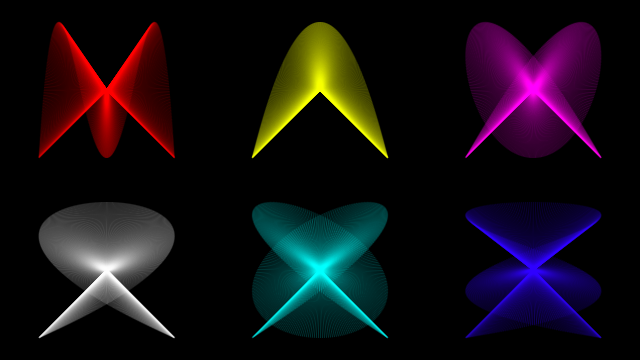
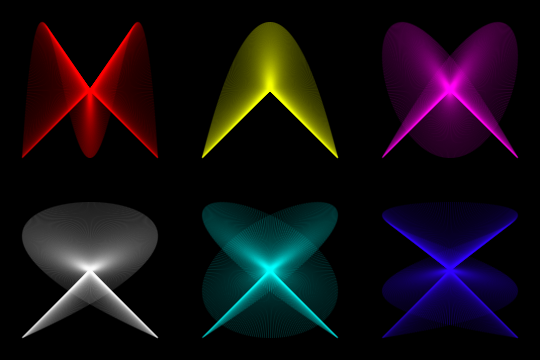
example: resize canvas, adjust opacity

diff --git a/example/index.js b/example/index.js
@@ -39,7 +39,7 @@ var colors = 'ff0000 ffff00 ff00ff ffffff 00ffff 0000ff'.split(' ').map(function
   var hex = parseInt(v, 16);
   var rgb = [hex >> 16, hex >> 8, hex].map(function (c) { return c & 255; }).join(',');
 
-  return ("rgba(" + rgb + ", 0.2)")
+  return ("rgba(" + rgb + ", 0.15)")
 });
 
 var driver = function (A, a, b, phase, B) {

diff --git a/example/index.html b/example/index.html
@@ -11,8 +11,8 @@
 
   <body>
     <figure>
-      <canvas height="360" width="640">
-        <img src="screenshot.png" height="360" width="640" alt="screenshot.png" />
+      <canvas height="360" width="540">
+        <img src="screenshot.png" height="360" width="540" alt="screenshot.png" />
       </canvas>
 
       <figcaption>

diff --git a/example/index.css b/example/index.css
@@ -29,7 +29,7 @@ p {
 
 figure {
   left: 50%;
-  margin: -180px 0 0 -320px;
+  margin: -180px 0 0 -270px;
   position: absolute;
   text-align: center;
   top: 50%;
